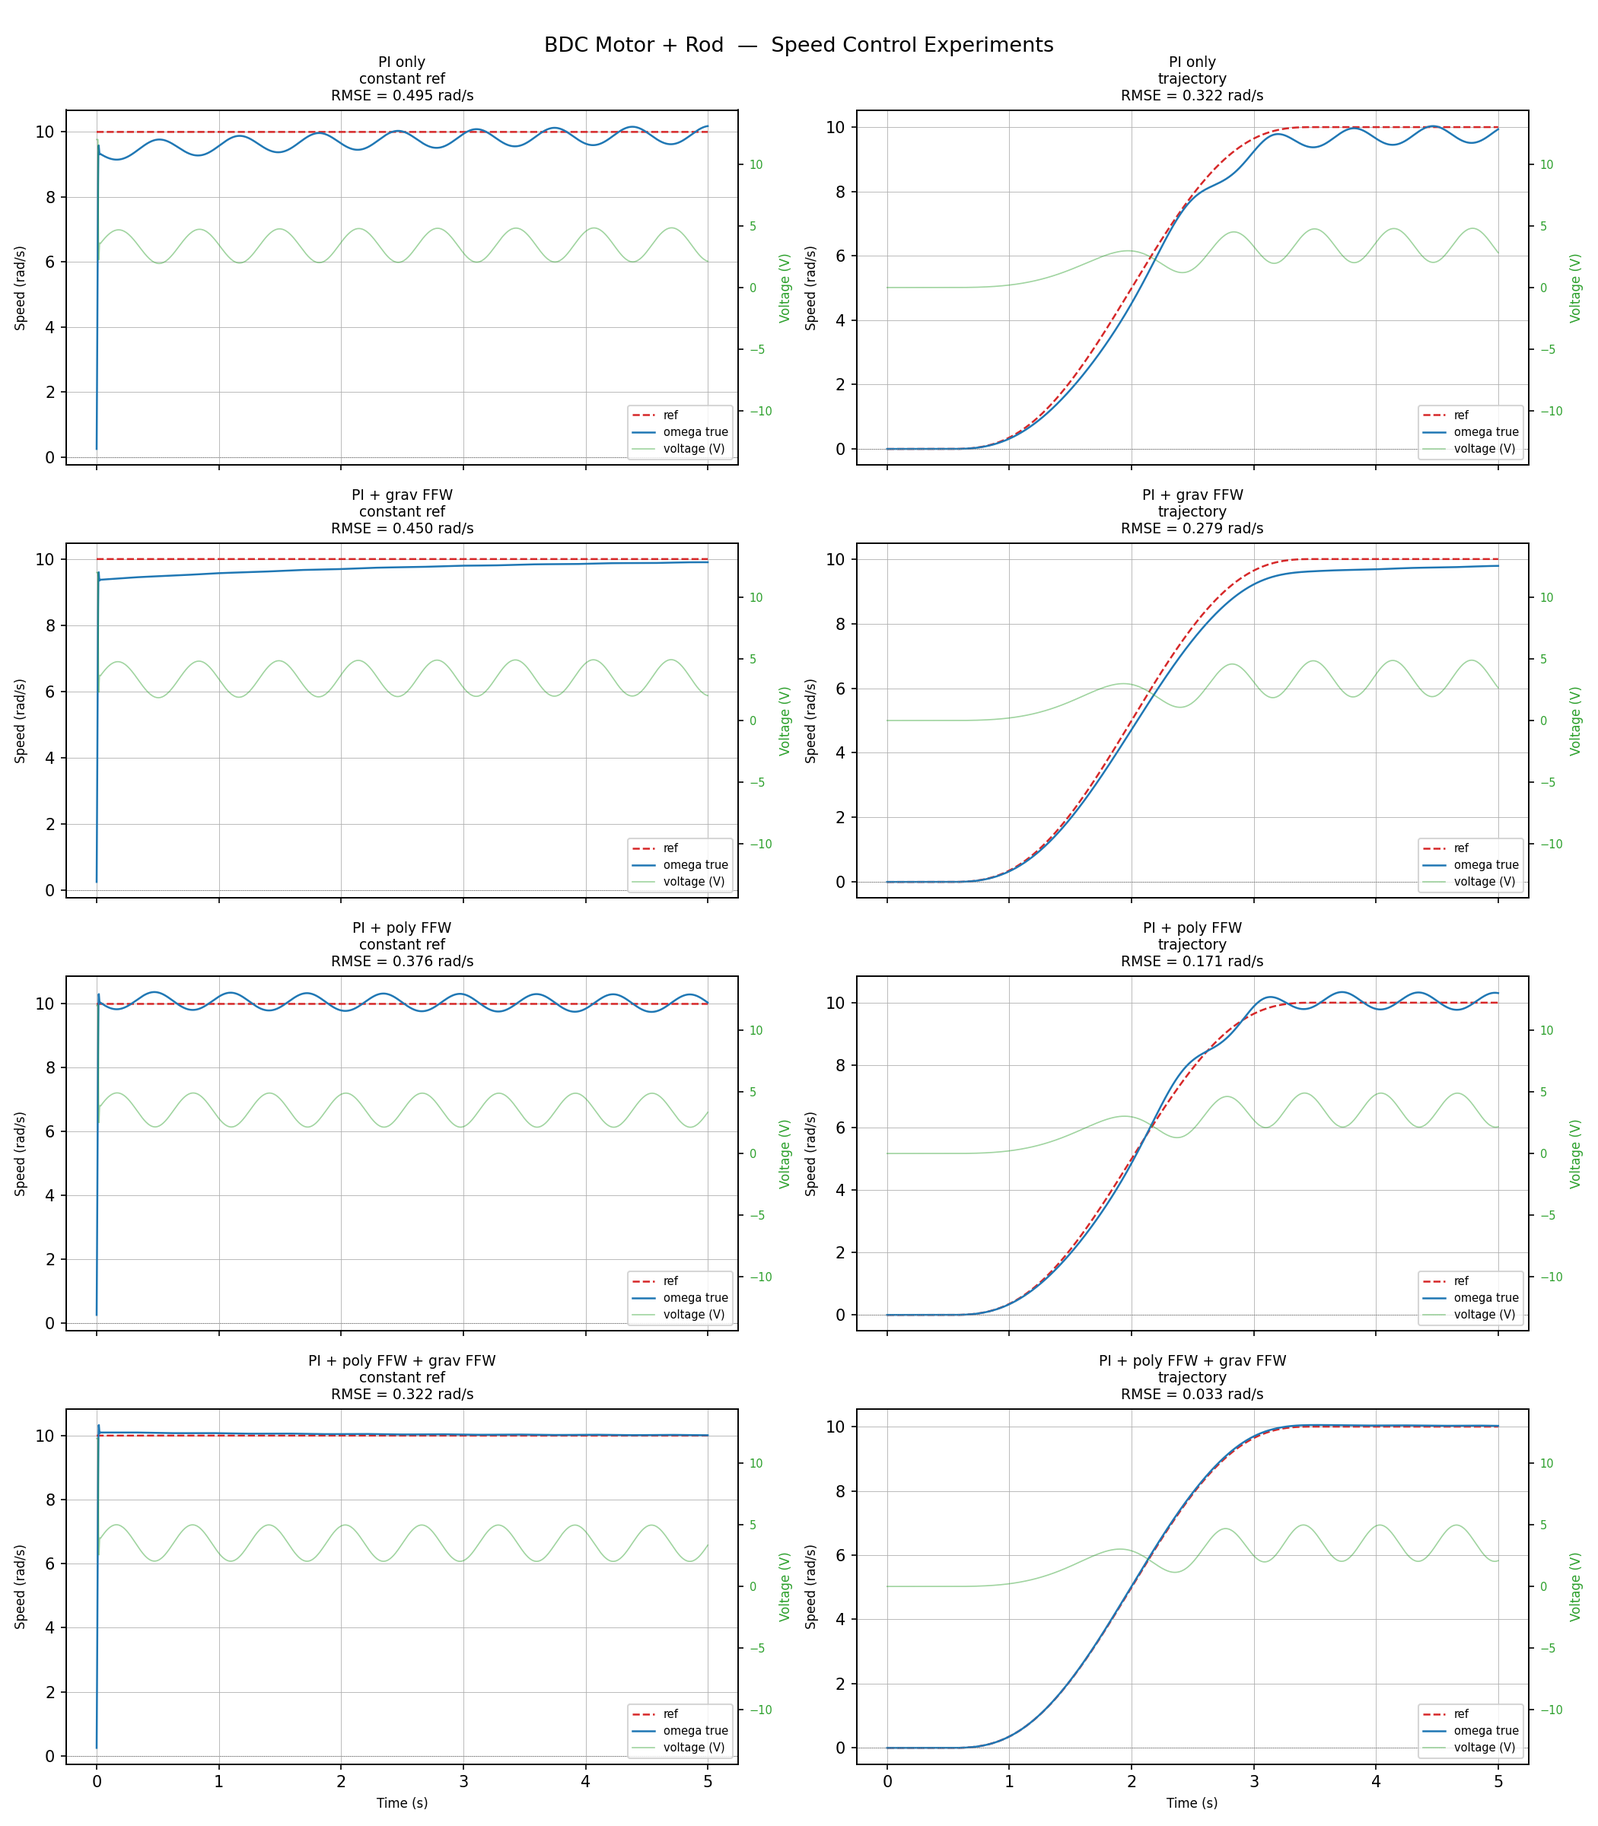
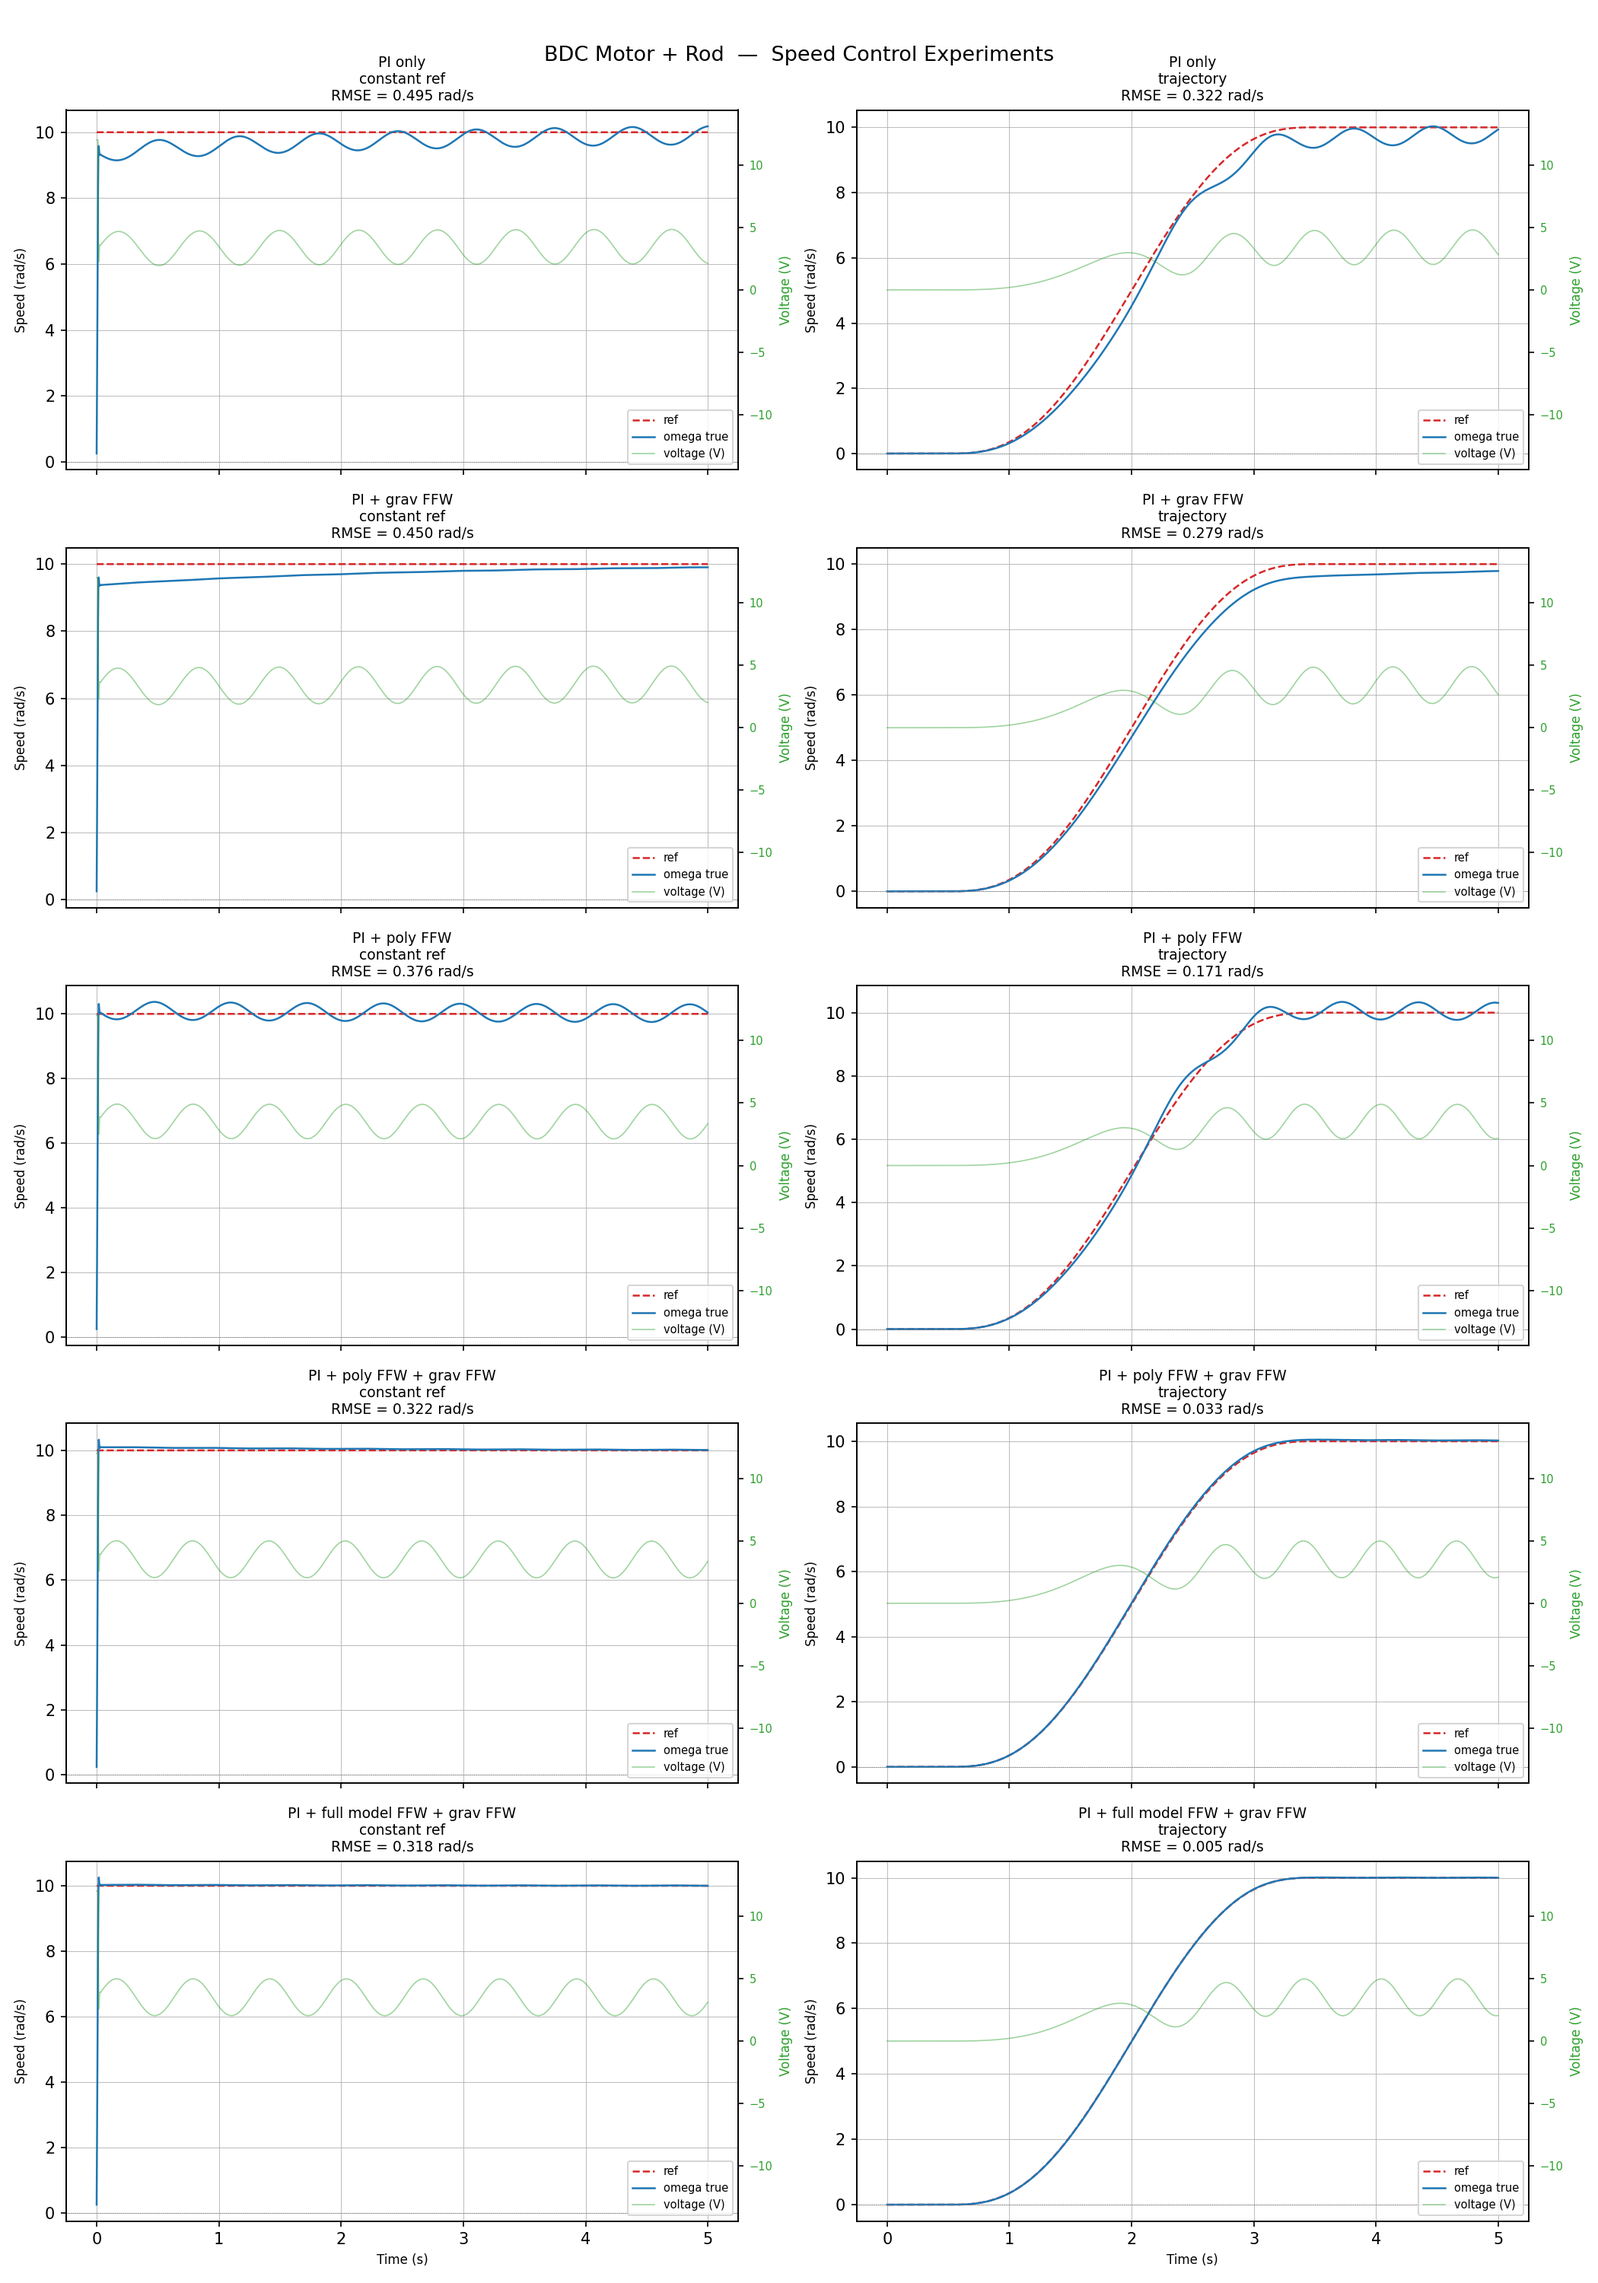
add moddel

diff --git a/experiments.py b/experiments.py
@@ -1,16 +1,18 @@
 """
-8-experiment speed-control comparison for BDC motor + vertical rod.
+10-experiment speed-control comparison for BDC motor + vertical rod.
 
 Experiments
 -----------
-  1. PI only                           — constant reference  (10 rad/s)
-  2. PI only                           — quintic trajectory  (0 -> 10 rad/s)
-  3. PI + gravity FFW                  — constant reference
-  4. PI + gravity FFW                  — quintic trajectory
-  5. PI + polynomial FFW               — constant reference
-  6. PI + polynomial FFW               — quintic trajectory
-  7. PI + polynomial FFW + gravity FFW — constant reference
-  8. PI + polynomial FFW + gravity FFW — quintic trajectory
+  1. PI only                                — constant reference  (10 rad/s)
+  2. PI only                                — quintic trajectory  (0 -> 10 rad/s)
+  3. PI + gravity FFW                       — constant reference
+  4. PI + gravity FFW                       — quintic trajectory
+  5. PI + polynomial FFW                    — constant reference
+  6. PI + polynomial FFW                    — quintic trajectory
+  7. PI + polynomial FFW + gravity FFW      — constant reference
+  8. PI + polynomial FFW + gravity FFW      — quintic trajectory
+  9. PI + full model FFW + gravity FFW      — constant reference
+ 10. PI + full model FFW + gravity FFW      — quintic trajectory
 
 Run:  python experiments.py   (from project root)
 Output: nn/results/experiments.png
@@ -130,7 +132,7 @@ class _PolyGravPI:
         p, rod, V_max = self._p, self._rod, self._p.V_max
 
         omega_c = np.clip(omega_target, self._omega_min, self._omega_max)
-        V_ff_poly = float(np.clip(np.polyval(self._coeffs, omega_c), -V_max, V_max))
+        V_ff_poly =  float(np.clip(np.polyval(self._coeffs, omega_c), -V_max, V_max))
         V_ff_grav = rod.m * rod.g * rod.l_cm * np.sin(theta) * p.R / p.Kt
 
         e = omega_target - omega_meas
@@ -140,6 +142,37 @@ class _PolyGravPI:
                 self._integral, -V_max / self.Ki, V_max / self.Ki)
 
         V = V_ff_poly + V_ff_grav + self.Kp * e + self.Ki * self._integral
+        return float(np.clip(V, -V_max, V_max))
+
+
+class _ModelGravPI:
+    """PI + full analytical motor model FFW + analytical gravity FFW."""
+
+    def __init__(self, Kp: float, Ki: float,
+                 params: BDCMotorParams, pendulum: PendulumParams):
+        self.Kp = Kp
+        self.Ki = Ki
+        self._p = params
+        self._rod = pendulum
+        self._integral = 0.0
+
+    def reset(self) -> None:
+        self._integral = 0.0
+
+    def step(self, omega_meas: float, omega_target: float,
+             theta: float, dt: float) -> float:
+        p, rod, V_max = self._p, self._rod, self._p.V_max
+
+        V_ff_model = omega_target * (p.R * p.B + p.Kb * p.Kt) / p.Kt
+        V_ff_grav  = rod.m * rod.g * rod.l_cm * np.sin(theta) * p.R / p.Kt
+
+        e = omega_target - omega_meas
+        self._integral += e * dt
+        if self.Ki != 0.0:
+            self._integral = np.clip(
+                self._integral, -V_max / self.Ki, V_max / self.Ki)
+
+        V = V_ff_model + V_ff_grav + self.Kp * e + self.Ki * self._integral
         return float(np.clip(V, -V_max, V_max))
 
 
@@ -236,15 +269,19 @@ def run_experiments():
         coeffs=poly_coeffs, omega_min=omega_min, omega_max=omega_max,
     )
 
+    ctrl_model_grav = _ModelGravPI(Kp=KP, Ki=KI, params=PARAMS, pendulum=ROD)
+
     experiments = [
-        ("PI only\nconstant ref",                   ctrl_pi,        const_ref),
-        ("PI only\ntrajectory",                     ctrl_pi,        traj_ref),
-        ("PI + grav FFW\nconstant ref",             ctrl_grav,      const_ref),
-        ("PI + grav FFW\ntrajectory",               ctrl_grav,      traj_ref),
-        ("PI + poly FFW\nconstant ref",             ctrl_poly,      const_ref),
-        ("PI + poly FFW\ntrajectory",               ctrl_poly,      traj_ref),
-        ("PI + poly FFW + grav FFW\nconstant ref",  ctrl_poly_grav, const_ref),
-        ("PI + poly FFW + grav FFW\ntrajectory",    ctrl_poly_grav, traj_ref),
+        ("PI only\nconstant ref",                       ctrl_pi,         const_ref),
+        ("PI only\ntrajectory",                         ctrl_pi,         traj_ref),
+        ("PI + grav FFW\nconstant ref",                 ctrl_grav,       const_ref),
+        ("PI + grav FFW\ntrajectory",                   ctrl_grav,       traj_ref),
+        ("PI + poly FFW\nconstant ref",                 ctrl_poly,       const_ref),
+        ("PI + poly FFW\ntrajectory",                   ctrl_poly,       traj_ref),
+        ("PI + poly FFW + grav FFW\nconstant ref",      ctrl_poly_grav,  const_ref),
+        ("PI + poly FFW + grav FFW\ntrajectory",        ctrl_poly_grav,  traj_ref),
+        ("PI + full model FFW + grav FFW\nconstant ref", ctrl_model_grav, const_ref),
+        ("PI + full model FFW + grav FFW\ntrajectory",   ctrl_model_grav, traj_ref),
     ]
 
     results = []

diff --git a/utils/controller.py b/utils/controller.py
@@ -72,7 +72,9 @@ class PIGravityController:
             self._integral = np.clip(
                 self._integral, -V_max / self.Ki, V_max / self.Ki
             )
-        Vref_ff = 0.436175*omega_target - -0.002772*omega_target*omega_target
+        # Vref_ff = 0.436175*omega_target - -0.002772*omega_target*omega_target
+
+        Vref_ff =  omega_target * (p.R * p.B + p.Kb * p.Kt)/p.Kt
         V = Vref_ff  + V_ff + self.Kp * e + self.Ki * self._integral
         return float(np.clip(V, -V_max, V_max))
 

diff --git a/run_viz.py b/run_viz.py
@@ -76,7 +76,7 @@ while running:
                                 omega_target=omega_target,
                                 theta=motor.state.theta,
                                 dt=DT)
-        state       = motor.step(dt=DT, voltage=5) # voltage)
+        state       = motor.step(dt=DT, voltage= voltage)
         omega_noisy = NOISE.measure(state.omega)
 
 vis.close()
